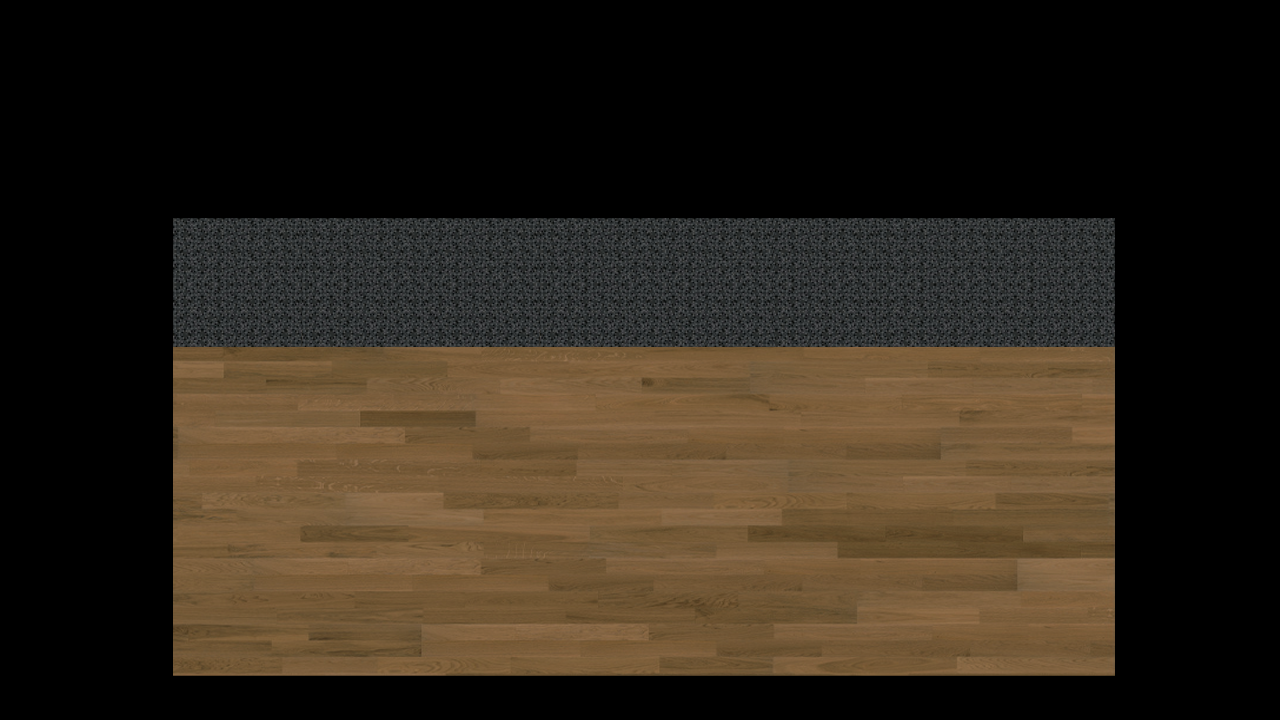
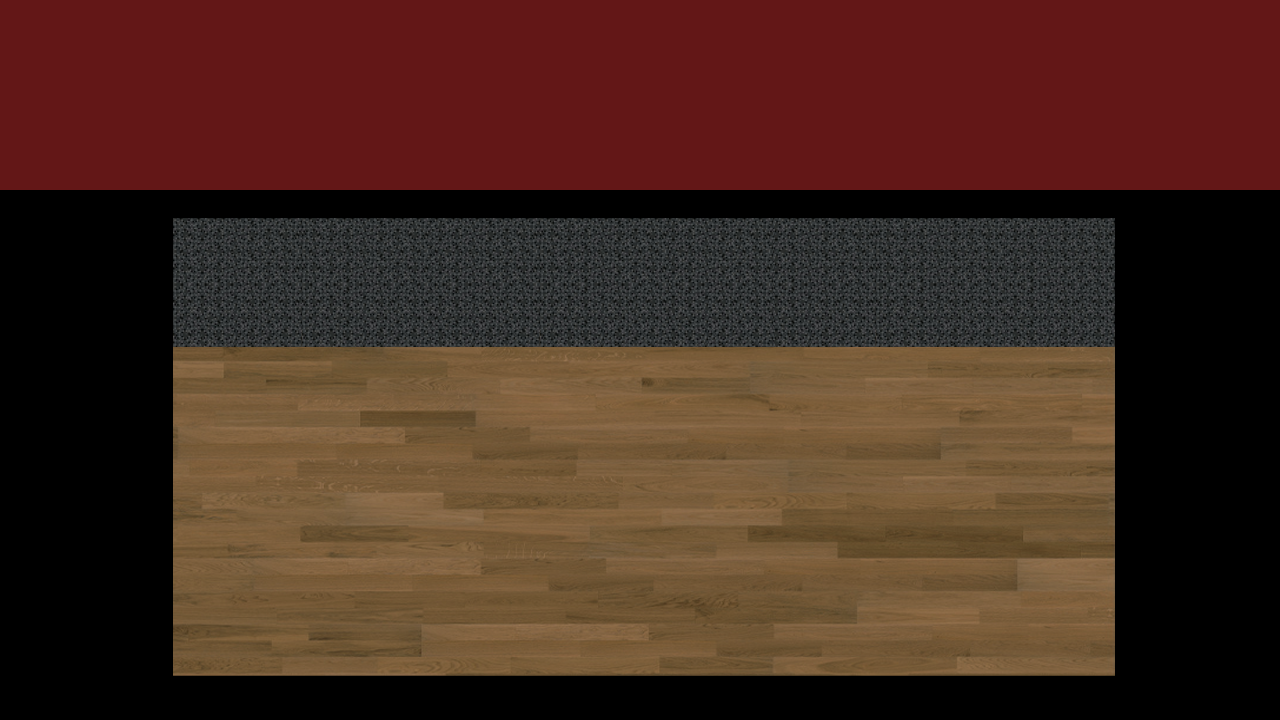
Adicionado minimapa

Changed region(s): [[0.0, 0.0, 1.0, 0.275]]

diff --git a/versao_final/Rooms/Room7.py b/versao_final/Rooms/Room7.py
@@ -6,7 +6,7 @@ from Sprites.Enemies.Bat import Bat
 from Sprites.Objects.Wardrobe import Wardrobe3
 from Sprites.Objects.SideDoor import SideDoor
 from Sprites.Objects.Piano import Piano
-from Sprites.Objects.Table import Table
+from Sprites.Enemies.Ghost import Ghost
 from Sprites.Wall import Wall
 
 class Room7(AbstractRoom):
@@ -14,6 +14,10 @@ class Room7(AbstractRoom):
         super().__init__()
         self.background = get_image('Telas', 'Tela.png')
         self.background = pg.transform.smoothscale(self.background, (1280, 700))
+        self.art= get_image('maps', 'map7.png')
+        self.art = pg.transform.smoothscale(self.art, (170, 170))
+        self.art2= get_image('picture', 'picture4.png')
+        self.art2 = pg.transform.smoothscale(self.art2, (200,145))
         
     def draw_background(self, screen):
         #screen.fill((255, 255, 255))
@@ -21,7 +25,8 @@ class Room7(AbstractRoom):
         screen.blit(self.background, dest=(0, 0))
 
     def draw_art(self, screen):
-        pass
+        screen.blit(self.art, (10, 10))
+        screen.blit(self.art2, (550, 179))
     
     def load(self, entry_point):
         self.start_walls()
@@ -29,6 +34,11 @@ class Room7(AbstractRoom):
         self.entities['enemies'].append(Zombie((700, 500)))
         self.entities['enemies'].append(Zombie((800, 500)))
         self.entities['enemies'].append(Zombie((750, 570)))
+        self.entities['enemies'].append(Ghost((700, 380)))
+        self.entities['enemies'].append(Ghost((750, 380)))
+        self.entities['enemies'].append(Ghost((340, 380)))
+        self.entities['enemies'].append(Ghost((570, 380)))
+        self.entities['enemies'].append(Ghost((660, 380)))
         self.entities['enemies'].append(Bat((700, 380)))
         self.entities['objects'].append(Wardrobe3((400, 310)))
         self.entities['objects'].append(Wardrobe3((330, 310)))

diff --git a/versao_final/Rooms/Room5.py b/versao_final/Rooms/Room5.py
@@ -2,6 +2,7 @@ import pygame as pg
 from get_image import get_image
 from Rooms.AbstractRoom import AbstractRoom
 from Sprites.Enemies.Zombie import Zombie
+from Sprites.Enemies.Ghost import Ghost
 from Sprites.Objects.Wardrobe import Wardrobe3
 from Sprites.Objects.SideDoor import SideDoor
 from Sprites.Wall import Wall
@@ -11,6 +12,10 @@ class Room5(AbstractRoom):
         super().__init__()
         self.background = get_image('Telas', 'Tela.png')
         self.background = pg.transform.smoothscale(self.background, (1280, 700))
+        self.art= get_image('maps', 'map5.png')
+        self.art = pg.transform.smoothscale(self.art, (170, 170))
+        self.art2= get_image('picture', 'picture3.png')
+        self.art2 = pg.transform.smoothscale(self.art2, (200,145))
         
     def draw_background(self, screen):
         #screen.fill((255, 255, 255))
@@ -18,7 +23,8 @@ class Room5(AbstractRoom):
         screen.blit(self.background, dest=(0, 0))
 
     def draw_art(self, screen):
-        pass
+        screen.blit(self.art, (10, 10))
+        screen.blit(self.art2, (750, 169))
     
     def load(self, entry_point):
         self.start_walls()
@@ -27,6 +33,8 @@ class Room5(AbstractRoom):
         self.entities['enemies'].append(Zombie((800, 500)))
         self.entities['enemies'].append(Zombie((750, 570)))
         self.entities['enemies'].append(Zombie((700, 380)))
+        self.entities['enemies'].append(Ghost((950, 380)))
+        self.entities['enemies'].append(Ghost((400, 290)))
         self.entities['objects'].append(Wardrobe3((500, 310)))
         self.entities['objects'].append(Wardrobe3((430, 310)))
         self.entities['objects'].append(SideDoor((135, 387), 5))

diff --git a/versao_final/Rooms/Room8.py b/versao_final/Rooms/Room8.py
@@ -3,6 +3,7 @@ from get_image import get_image
 from Rooms.AbstractRoom import AbstractRoom
 from Sprites.Enemies.Zombie import Zombie
 from Sprites.Enemies.Skeleton import Skeleton
+from Sprites.Enemies.Ghost import Ghost
 from Sprites.Enemies.Bat import Bat
 from Sprites.Objects.Wardrobe import Wardrobe
 from Sprites.Objects.Door import DoorBoss
@@ -14,6 +15,8 @@ class Room8(AbstractRoom):
         super().__init__()
         self.background = get_image('Telas', 'Tela.png')
         self.background = pg.transform.smoothscale(self.background, (1280, 700))
+        self.art= get_image('maps', 'map8.png')
+        self.art = pg.transform.smoothscale(self.art, (170, 170))
         
     def draw_background(self, screen):
         #screen.fill((255, 255, 255))
@@ -21,7 +24,7 @@ class Room8(AbstractRoom):
         screen.blit(self.background, dest=(0, 0))
 
     def draw_art(self, screen):
-        pass
+        screen.blit(self.art, (10, 10))
     
     def load(self, entry_point):
         self.start_walls()
@@ -32,6 +35,9 @@ class Room8(AbstractRoom):
         self.entities['enemies'].append(Zombie((700, 380)))
         self.entities['enemies'].append(Skeleton((400, 310)))
         self.entities['enemies'].append(Skeleton((330, 310)))
+        self.entities['enemies'].append(Ghost((800, 380)))
+        self.entities['enemies'].append(Ghost((850, 380)))
+        self.entities['enemies'].append(Ghost((900, 380)))
         self.entities['enemies'].append(Bat((520, 350)))
         self.entities['enemies'].append(Bat((700, 387)))
         self.entities['objects'].append(Wardrobe((400, 310)))

diff --git a/versao_final/Sprites/Enemies/Ghost.py b/versao_final/Sprites/Enemies/Ghost.py
@@ -2,12 +2,12 @@ import pygame as pg
 from math import atan2, cos, sin
 from Sprites.Enemies.Enemy import Enemy
 
-class Zombie(Enemy):
-    def __init__(self, start_pos, image_folder="enemies", image_name="zumbi.png", image_size=(48, 78)):
+class Ghost(Enemy):
+    def __init__(self, start_pos, image_folder="enemies", image_name="Ghost.png", image_size=(70, 70)):
         super().__init__(start_pos, image_folder, image_name, image_size)
-        self.name = "Zombie"
-        self.health = 4
-        self.damage = 1
+        self.name = "Ghost"
+        self.health = 1
+        self.damage = 3
 
     def ai_move(self, player_coord):
         """
@@ -17,7 +17,7 @@ class Zombie(Enemy):
         y_diff = player_coord[1] - self.rect.centery
         angle = atan2(y_diff, x_diff)
 
-        movement = (cos(angle) * 1.2, sin(angle) * 1.2)
+        movement = (cos(angle) * 3.5, sin(angle) * 3.5)
 
         return movement
 
@@ -25,3 +25,8 @@ class Zombie(Enemy):
         super().update()
         pass
 
+    def attack(self, direction):
+        """
+        Ataca o jogador
+        """
+        pass

diff --git a/versao_final/Rooms/Room4.py b/versao_final/Rooms/Room4.py
@@ -15,6 +15,10 @@ class Room4(AbstractRoom):
         super().__init__()
         self.background = get_image('Telas', 'Tela.png')
         self.background = pg.transform.smoothscale(self.background, (1280, 700))
+        self.art= get_image('maps', 'map4.png')
+        self.art = pg.transform.smoothscale(self.art, (170, 170))
+        self.art2= get_image('picture', 'picture2.png')
+        self.art2 = pg.transform.smoothscale(self.art2, (100, 135))
         
     def draw_background(self, screen):
         #screen.fill((255, 255, 255))
@@ -22,7 +26,8 @@ class Room4(AbstractRoom):
         screen.blit(self.background, dest=(0, 0))
 
     def draw_art(self, screen):
-        pass
+        screen.blit(self.art, (10, 10))
+        screen.blit(self.art2, (650, 205))
     
     def load(self, entry_point):
         self.start_walls()

diff --git a/versao_final/Rooms/Room1.py b/versao_final/Rooms/Room1.py
@@ -12,6 +12,8 @@ class Room1(AbstractRoom):
         self.rect_mudarSala = pg.Rect(60, 100, 300, 287) #apagar isso também
         self.background = get_image('Telas', 'Tela.png')
         self.background = pg.transform.smoothscale(self.background, (1280, 700))
+        self.art= get_image('maps', 'map1.png')
+        self.art = pg.transform.smoothscale(self.art, (170, 170))
         
     def draw_background(self, screen):
         #screen.fill((255, 255, 255))
@@ -19,7 +21,8 @@ class Room1(AbstractRoom):
         screen.blit(self.background, dest=(0, 0))
 
     def draw_art(self, screen):
-        pass
+        screen.blit(self.art, (10, 10))
+        
     
     def load(self, entry_point):
         self.entities['enemies'].append(Zombie((700, 500)))

diff --git a/versao_final/Rooms/Room2.py b/versao_final/Rooms/Room2.py
@@ -14,13 +14,19 @@ class Room2(AbstractRoom):
         super().__init__()
         self.background = get_image('Telas', 'Tela.png')
         self.background = pg.transform.smoothscale(self.background, (1280, 700))
+        self.art= get_image('maps', 'map2.png')
+        self.art = pg.transform.smoothscale(self.art, (170, 170))
+        self.art2= get_image('picture', 'picture1.png')
+        self.art2 = pg.transform.smoothscale(self.art2, (77, 82))
 
     def draw_background(self, screen):
 
         screen.blit(self.background, dest=(0, 0))
 
     def draw_art(self, screen):
-        pass
+        screen.blit(self.art, (10, 10))
+        screen.blit(self.art2, (300, 220))
+
     
     def load(self, entry_point):
         self.start_walls()

diff --git a/versao_final/Rooms/Room3.py b/versao_final/Rooms/Room3.py
@@ -12,6 +12,8 @@ class Room3(AbstractRoom):
         super().__init__()
         self.background = get_image('Telas', 'Tela.png')
         self.background = pg.transform.smoothscale(self.background, (1280, 700))
+        self.art= get_image('maps', 'map3.png')
+        self.art = pg.transform.smoothscale(self.art, (170, 170))
         
     def draw_background(self, screen):
         #screen.fill((255, 255, 255))
@@ -19,7 +21,7 @@ class Room3(AbstractRoom):
         screen.blit(self.background, dest=(0, 0))
 
     def draw_art(self, screen):
-        pass
+        screen.blit(self.art, (10, 10))
     
     def load(self, entry_point):
         self.start_walls()

diff --git a/versao_final/Rooms/Room6.py b/versao_final/Rooms/Room6.py
@@ -14,6 +14,8 @@ class Room6(AbstractRoom):
         super().__init__()
         self.background = get_image('Telas', 'Tela.png')
         self.background = pg.transform.smoothscale(self.background, (1280, 700))
+        self.art= get_image('maps', 'map6.png')
+        self.art = pg.transform.smoothscale(self.art, (170, 170))
         
     def draw_background(self, screen):
         #screen.fill((255, 255, 255))
@@ -21,7 +23,7 @@ class Room6(AbstractRoom):
         screen.blit(self.background, dest=(0, 0))
 
     def draw_art(self, screen):
-        pass
+        screen.blit(self.art, (10, 10))
     
     def load(self, entry_point):
         self.start_walls()

diff --git a/versao_final/Rooms/Room9.py b/versao_final/Rooms/Room9.py
@@ -9,6 +9,8 @@ class Room9(AbstractRoom):
         super().__init__()
         self.background = get_image('Telas', 'Tela.png')
         self.background = pg.transform.smoothscale(self.background, (1280, 700))
+        self.art= get_image('maps', 'map9.png')
+        self.art = pg.transform.smoothscale(self.art, (170, 170))
         
     def draw_background(self, screen):
         #screen.fill((255, 255, 255))
@@ -16,7 +18,7 @@ class Room9(AbstractRoom):
         screen.blit(self.background, dest=(0, 0))
 
     def draw_art(self, screen):
-        pass
+        screen.blit(self.art, (10, 10))
     
     def load(self, entry_point):
         self.start_walls()

diff --git a/versao_final/States/GameState.py b/versao_final/States/GameState.py
@@ -247,7 +247,7 @@ class GameState(AbstractState):
 
 
         # hud
-        pg.draw.rect(screen, (99, 23, 23), pg.Rect(0, 0, 1280, 180))
+        #pg.draw.rect(screen, (99, 23, 23), pg.Rect(0, 0, 1280, 180))
 
         img = get_image("art", "coracao.png")
         img = pg.transform.smoothscale(img, (280, 295))
